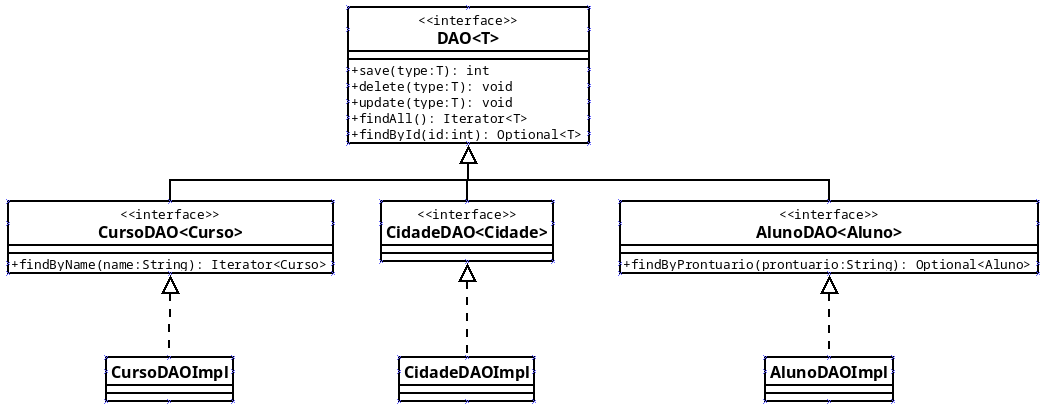
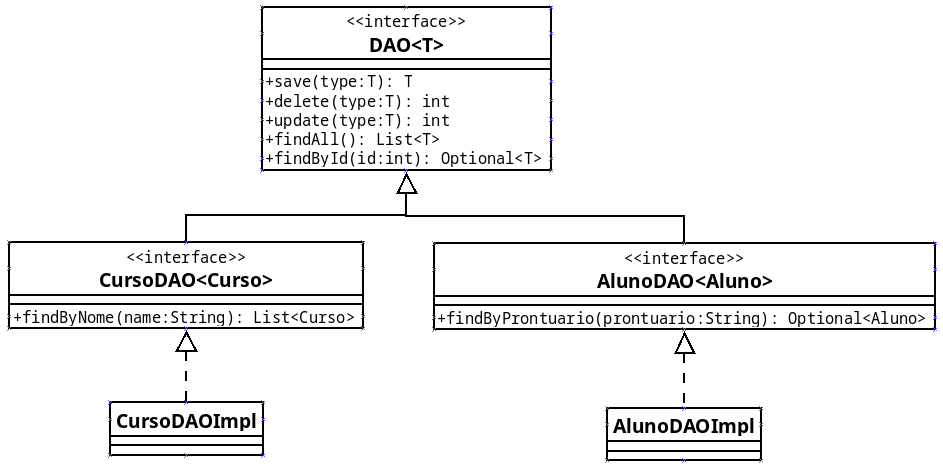
initial commit

diff --git a/07-acesso-bd/Exemplo_DAO/README.md b/07-acesso-bd/Exemplo_DAO/README.md
@@ -12,64 +12,6 @@ O projeto também utiliza a classe **Optional** para representar valores que pod
 ---
 # Casos de Uso 
 
-## Domínio: Cidade
-
-
-<img src="img/cidadeUC.png">
-
-### Caso de Uso: Adicionar Cidade
-**Ator Principal:** Usuário  
-**Descrição:** Permite que o usuário adicione uma nova cidade ao sistema.  
-**Fluxo Principal:**
-1. O usuário informa o nome da cidade
-2. A cidade é adicionada ao banco de dados.
-3. O sistema confirma a adição.  
-**Exceções:**
-- Se o nome da cidade for nulo ou consistir apenas em espaços em branco, o sistema não adicionará a cidade e informará ao usuário que o nome da cidade não pode estar vazio.
-
-### Caso de Uso: Atualizar Cidade
-**Ator Principal:** Usuário  
-**Descrição:** Permite que o usuário atualize as informações de uma cidade já cadastrada.  
-**Fluxo Principal:**
-1. O usuário informa qual cidade deseja atualizar, junto com novos dados.
-2. O sistema localiza a cidade correspondente.
-3. O sistema atualiza os dados no banco.
-4. O sistema confirma a atualização.  
-**Exceções:**
-- Se o ID informado não corresponder a nenhuma cidade, uma mensagem de erro é exibida.
-- Se o novo nome da cidade for nulo ou consistir apenas em espaços em branco, o sistema não atualizará a cidade e informará ao usuário que o nome da cidade não pode estar vazio.
-
-### Caso de Uso: Apagar Cidade
-**Ator Principal:** Usuário  
-**Descrição:** Permite que o usuário remova uma cidade cadastrada.  
-**Fluxo Principal:**
-1. O usuário informa a cidade a ser removida.
-2. O sistema verifica a existência da cidade.
-3. A cidade é removida do banco de dados.
-4. O sistema confirma a remoção.  
-**Exceções:**
-- Se a cidade informada não for localizada, uma mensagem de erro é exibida.
-- Se a cidade estiver vinculada a outros dados, a exclusão pode ser impedida.
-
-### Caso de Uso: Obter Todas as Cidades
-**Ator Principal:** Usuário  
-**Descrição:** Permite visualizar todas as cidades cadastradas.  
-**Fluxo Principal:**
-1. O usuário solicita a listagem de cidades.
-2. O sistema consulta o banco de dados.
-3. Todas as cidades cadastradas são exibidas.
-
-### Caso de Uso: Obter Cidade por ID
-**Ator Principal:** Usuário  
-**Descrição:** Permite buscar uma cidade específica a partir de seu ID.  
-**Fluxo Principal:**
-1. O usuário informa o ID da cidade.
-2. O sistema busca a cidade correspondente.
-3. Os dados da cidade são exibidos.  
-**Exceções:**
-- Se o ID não existir, o sistema informa que a cidade não foi encontrada.
-
----
 
 ## Domínio: Curso
 
@@ -147,7 +89,7 @@ O projeto também utiliza a classe **Optional** para representar valores que pod
 **Ator Principal:** Usuário  
 **Descrição:** Permite que o usuário adicione um novo aluno ao sistema.  
 **Fluxo Principal:**
-1. O usuário informa os dados do aluno: nome, prontuário, curso, cidade.
+1. O usuário informa os dados do aluno: nome, prontuário e curso.
 2. O sistema verifica se já existe um aluno com o mesmo prontuário.
 3. Se não existir, o aluno é salvo no banco de dados.
 4. O sistema confirma a adição.  
